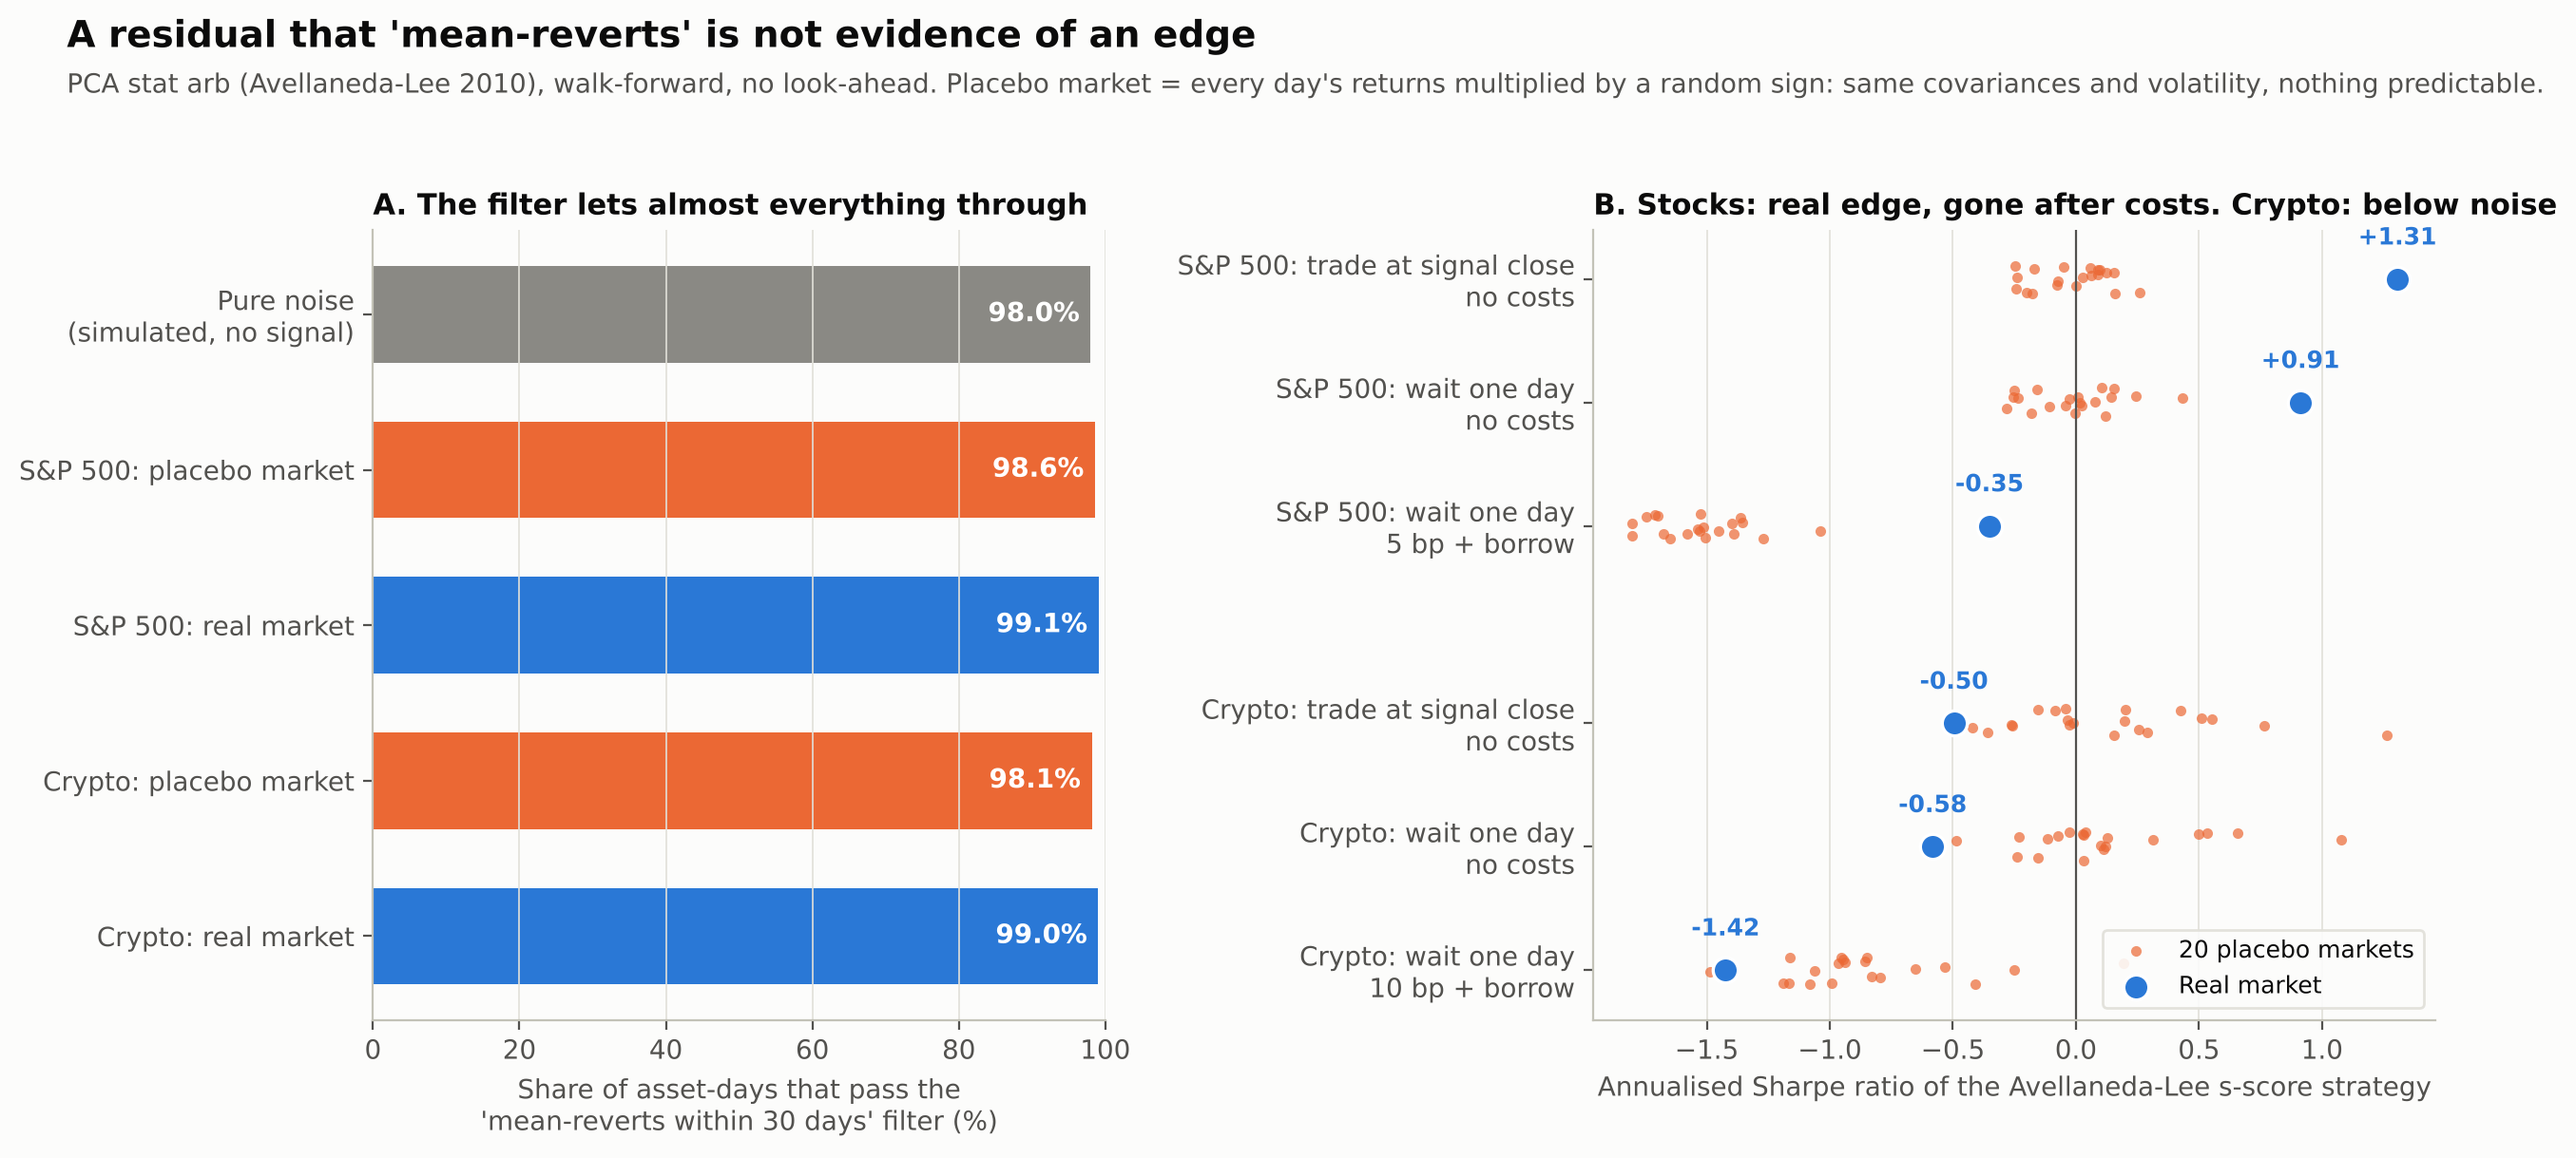
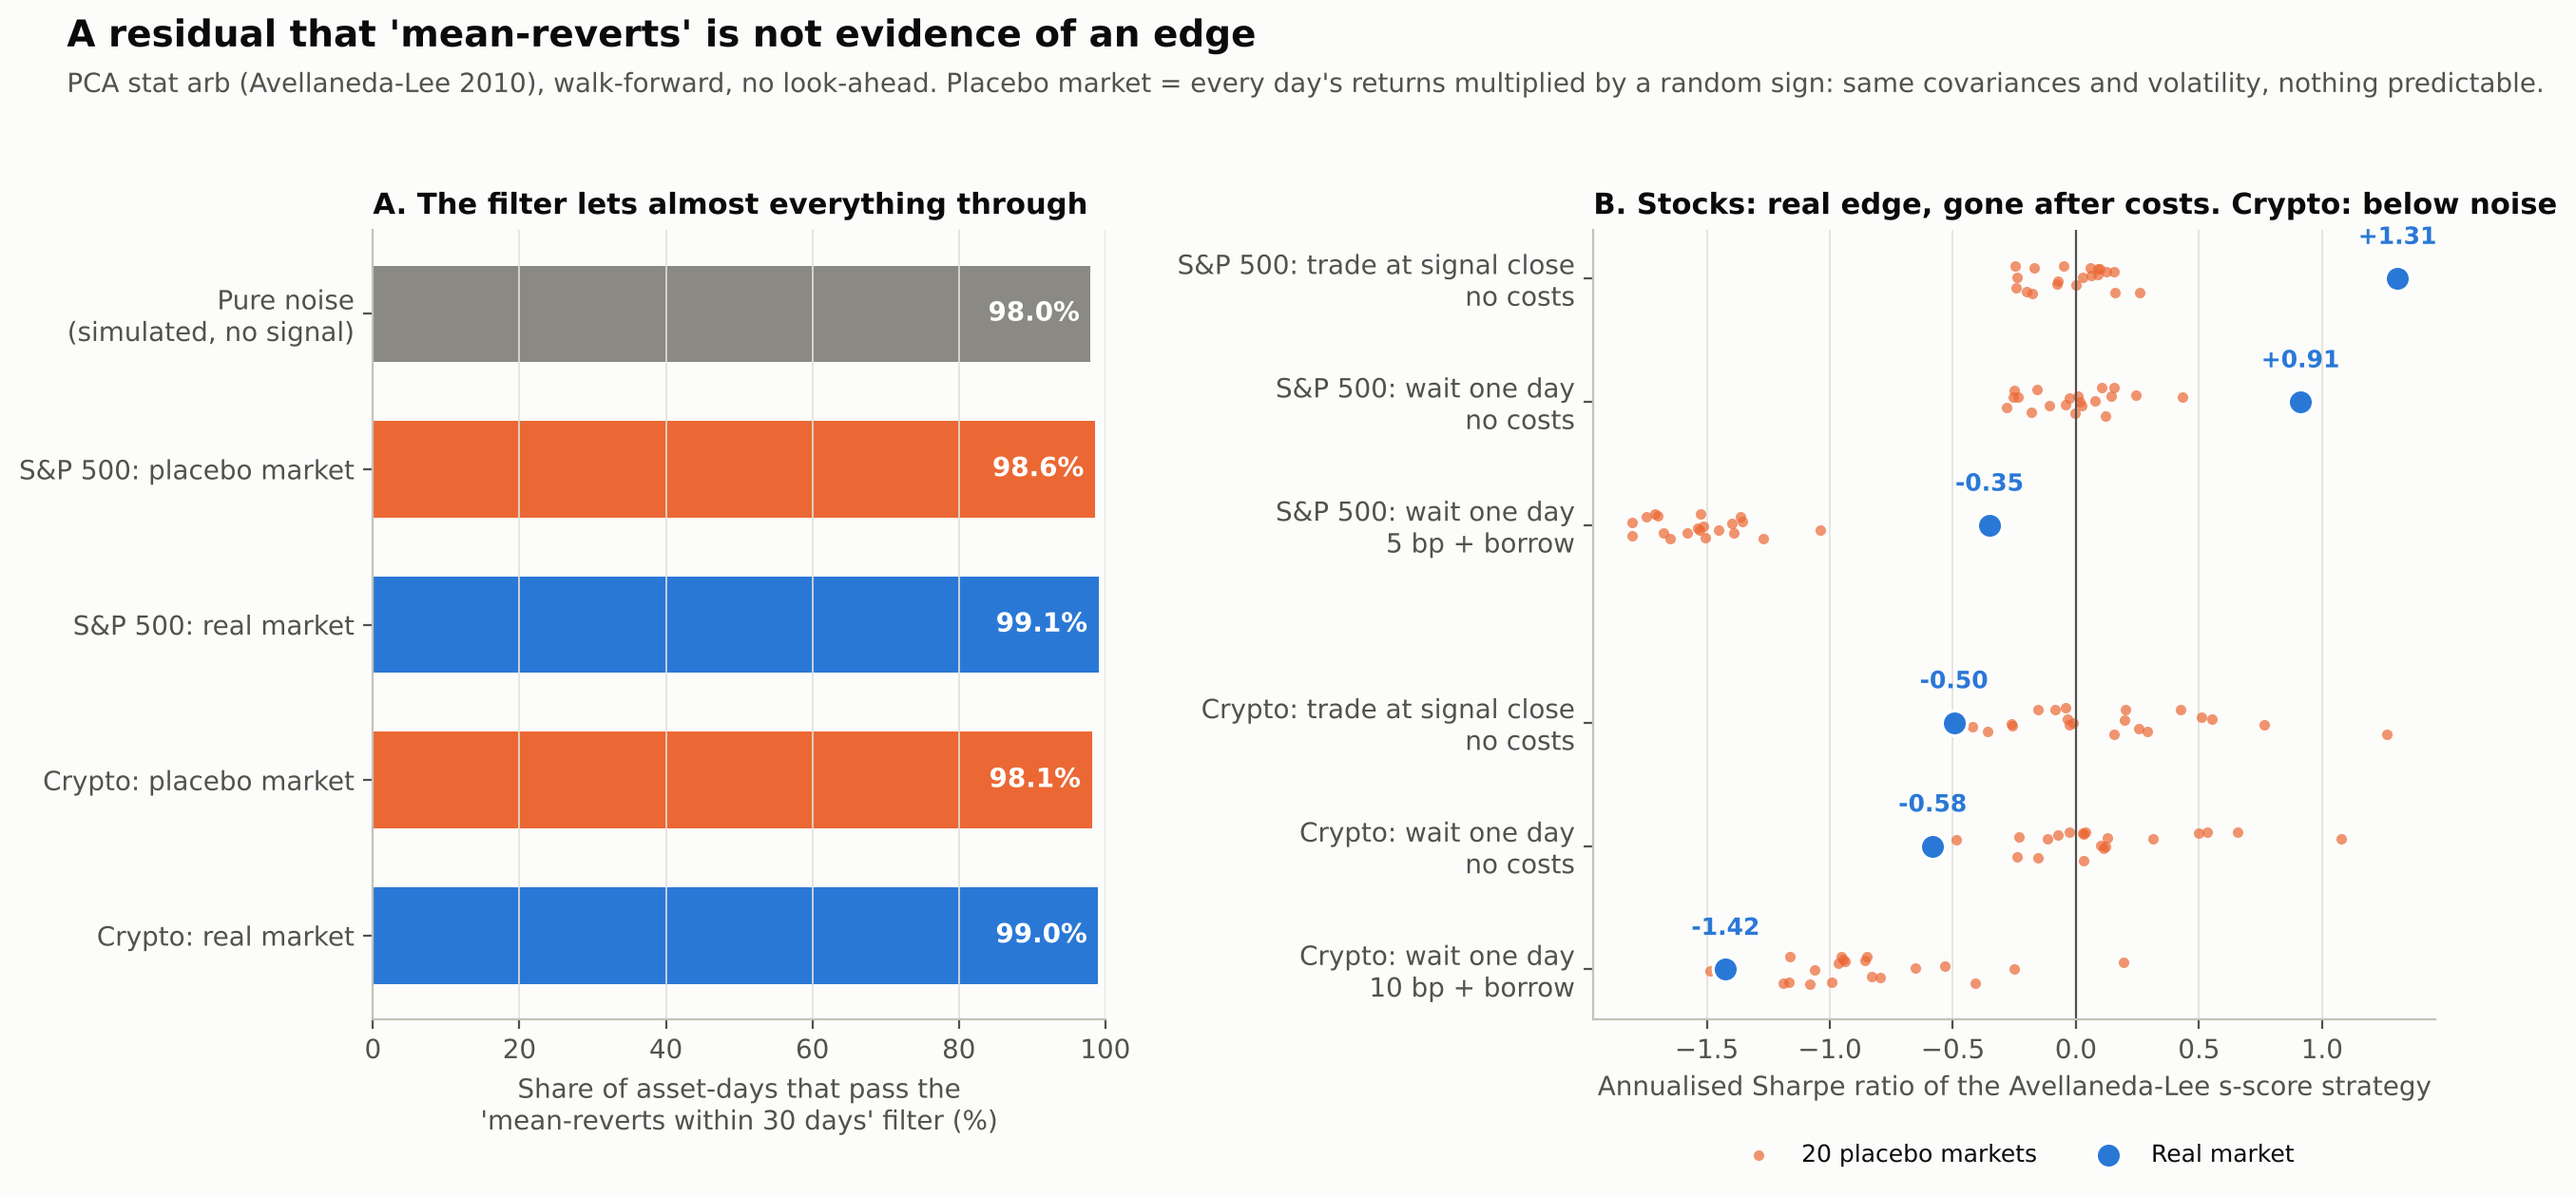
Project 24: move star-chart legend
Claude-Session: https://claude.ai/code/session_01CLkuMpi92Sey9wfxPQ65sX

diff --git a/24-pca-stat-arb/src/figures.py b/24-pca-stat-arb/src/figures.py
@@ -102,7 +102,7 @@ def fig1_star(runs):
     ax.set_yticks([l[0] for l in labels], [l[1] for l in labels])
     ax.set_xlabel("Annualised Sharpe ratio of the Avellaneda-Lee s-score strategy")
     ax.set_title("B. Stocks: real edge, gone after costs. Crypto: below noise", loc="left")
-    ax.legend(loc="lower right", fontsize=9, framealpha=0.9, frameon=True, edgecolor=GRID)
+    ax.legend(loc="upper center", bbox_to_anchor=(0.5, -0.13), ncol=2, fontsize=9)
     ax.grid(axis="y", visible=False)
     title(fig, "A residual that 'mean-reverts' is not evidence of an edge",
           "PCA stat arb (Avellaneda-Lee 2010), walk-forward, no look-ahead. Placebo market = every day's returns "
